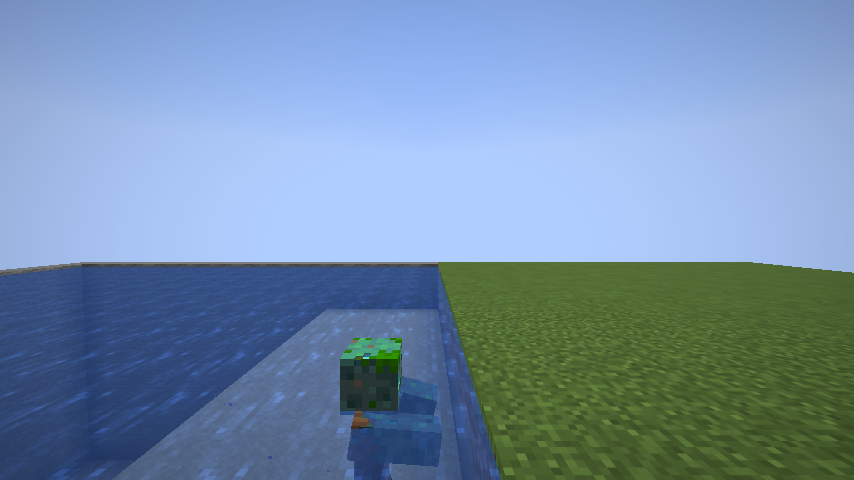
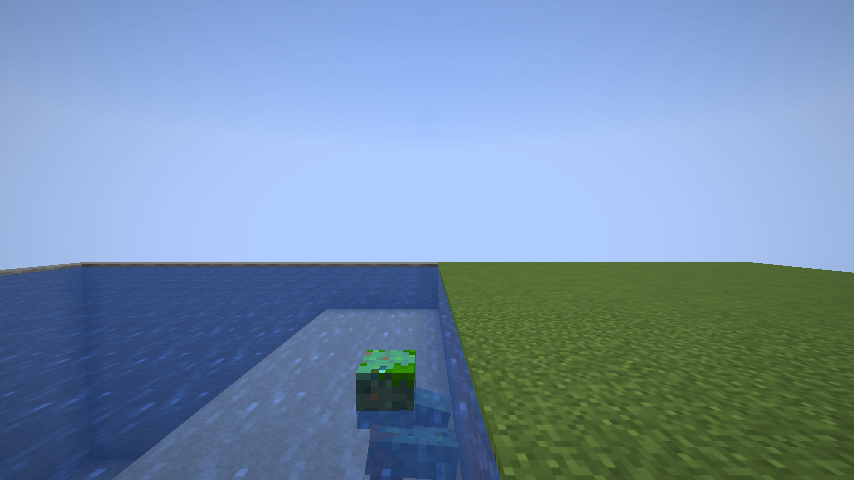
Reworked Mobs: drowned hold victims by the ankles (feet first into deep water, also when crawling) and lurk with only eyes and scalp above water; screenshots and addendum (C1)

Changed region(s): [[0.3958, 0.6875, 0.548, 1.0]]

diff --git a/mods/bubbas_reworked_mobs/src/gametest/java/io/github/bubba8587/bubbas_reworked_mobs/test/DrownedClientGameTest.java b/mods/bubbas_reworked_mobs/src/gametest/java/io/github/bubba8587/bubbas_reworked_mobs/test/DrownedClientGameTest.java
@@ -23,8 +23,9 @@ import net.fabricmc.fabric.api.client.gametest.v1.context.TestSingleplayerContex
  * Looks at the lurking drowned (specs/drowned.md; client part {@code drowned}). A stone block in the sky with a grass
  * shore, 2-deep shallows and a deep pit. Upright: drowned-lurk and drowned-lurk-low (head above the water),
  * drowned-sunk (a villager on the shore stares at it), drowned-grab (it has surged and grabbed a villager with its
- * back turned), drowned-drag-deep (upright, under water, holding it), drowned-held-player (the camera player held,
- * from the front). Lying: drowned-swim (swimming to its spot), drowned-crawl-side and drowned-crawl-front (crawling
+ * back turned), drowned-drag-deep (upright, under water, holding it), drowned-held-player (the camera player held
+ * by the ankles, from in front and below), drowned-lurk-bank (from the bank at water level: only its eyes and scalp show). Lying: drowned-grab-land
+ * (dragging a villager back to the water by the ankles), drowned-swim (swimming to its spot), drowned-crawl-side and drowned-crawl-front (crawling
  * on land).
  */
 @SuppressWarnings("UnstableApiUsage")
@@ -80,6 +81,9 @@ public class DrownedClientGameTest implements FabricClientGameTest {
 			context.waitTicks(15);
 			tp(context, server, x + 0.5, y + 0.4, z + 0.5, 0.0F, 20.0F);
 			context.takeScreenshot("drowned-lurk");
+			// From the bank, eyes just above the water (owner: only its eyes and the top of its head show).
+			tp(context, server, x + 0.5, y - 1.42, z + 2.4, 0.0F, 3.0F);
+			context.takeScreenshot("drowned-lurk-bank");
 			tp(context, server, x + 3.5, y - 0.05, z + 4.5, 90.0F, 2.0F);
 			context.takeScreenshot("drowned-lurk-low");
 
@@ -165,14 +169,33 @@ public class DrownedClientGameTest implements FabricClientGameTest {
 			}
 			context.takeScreenshot("drowned-crawl-front");
 			server.runCommand("kill @e[tag=%s]".formatted(TAG));
+			context.waitTicks(30);
+
+			// --- lying: a grab on land, dragging a villager back to the water by the ankles -------------------
+			server.runCommand("summon minecraft:drowned %d.5 %d %d.5 {PersistenceRequired:1b,Silent:1b,Rotation:[180f,0f],Tags:[\"%s\"]}".formatted(x + 4, y, z + 1, TAG));
+			server.runCommand("summon minecraft:villager %d.5 %d %d.5 {NoAI:1b,Silent:1b,Rotation:[180f,0f],Tags:[\"%s_v\"]}".formatted(x + 4, y, z - 1, TAG));
+			context.waitTicks(3);
+			onServer(server, level -> {
+				Drowned drowned = drowned(level);
+				drowned.setYRot(180.0F);
+				drowned.setYBodyRot(180.0F);
+				DrownedAccess.mind(drowned).grab(drowned, level, villager(level));
+				return null;
+			});
+			context.waitTicks(14);
+			double lz = onServer(server, level -> drowned(level).getZ());
+			tp(context, server, x + 7.5, y + 0.6, lz - 0.6, 90.0F, 12.0F);
+			context.takeScreenshot("drowned-grab-land");
+			server.runCommand("kill @e[tag=%s]".formatted(TAG));
+			server.runCommand("kill @e[tag=%s_v]".formatted(TAG));
 			server.runCommand("time set noon");
 			context.waitTicks(30);
 
 			// --- upright: holding the camera player (survival), from the front --------------------------
 			server.runCommand("gamemode survival @p");
 			server.runCommand("effect give @p minecraft:resistance infinite 4 true");
-			server.runCommand("tp @p %d.5 %d %d.5 90 10".formatted(x, y - 2, z + 6));
-			server.runCommand("summon minecraft:drowned %d.5 %d %d.5 {PersistenceRequired:1b,Silent:1b,Rotation:[180f,0f],Tags:[\"%s\"]}".formatted(x, y - 2, z + 7, TAG));
+			server.runCommand("tp @p %d.5 %d %d.5 120 35".formatted(x, y - 9, z + 11));
+			server.runCommand("summon minecraft:drowned %d.5 %d %d.5 {PersistenceRequired:1b,Silent:1b,Rotation:[180f,0f],Tags:[\"%s\"]}".formatted(x, y - 9, z + 12, TAG));
 			context.waitTicks(5);
 			onServer(server, level -> {
 				Drowned drowned = drowned(level);
@@ -181,9 +204,14 @@ public class DrownedClientGameTest implements FabricClientGameTest {
 				DrownedAccess.mind(drowned).grab(drowned, level, level.players().getFirst());
 				return null;
 			});
+			// From in front and below (the player looks down toward the camera; the drowned holds their ankles behind).
 			context.runOnClient(mc -> mc.options.setCameraType(CameraType.THIRD_PERSON_FRONT));
 			context.waitTicks(25);
+			context.takeScreenshot("drowned-held-player-hud");
+			context.runOnClient(mc -> mc.gui.hud.toggle());
+			context.waitTicks(2);
 			context.takeScreenshot("drowned-held-player");
+			context.runOnClient(mc -> mc.gui.hud.toggle());
 			context.runOnClient(mc -> mc.options.setCameraType(CameraType.FIRST_PERSON));
 			server.runCommand("kill @e[tag=%s]".formatted(TAG));
 			context.waitTicks(2);

diff --git a/mods/bubbas_reworked_mobs/src/main/java/io/github/bubba8587/bubbas_reworked_mobs/drowned/DrownedTuning.java b/mods/bubbas_reworked_mobs/src/main/java/io/github/bubba8587/bubbas_reworked_mobs/drowned/DrownedTuning.java
@@ -48,8 +48,8 @@ public final class DrownedTuning {
 	public static final double TRAVEL_SPEED = 1.2;
 
 	// --- lurking ----------------------------------------------------------------------------------
-	/** Lurking: its eyes this far above the water's surface (just the top of the head shows; it floats a little off the floor). */
-	public static final double LURK_EYES_ABOVE_SURFACE = 0.25;
+	/** Lurking: its eyes this far above the water's surface (owner: only the eyes and the top of the head show, the waterline just under the eyes; it floats a little off the floor). */
+	public static final double LURK_EYES_ABOVE_SURFACE = 0.12;
 	/** Sunk: the top of its head this far below the surface, or as low as the floor allows (in 2-deep water it stands on the floor and crouches). */
 	public static final double SUNK_HEAD_BELOW_SURFACE = 0.1;
 	/** How fast it rises and sinks (blocks a tick; the spring toward its height is capped at this). */
@@ -86,10 +86,17 @@ public final class DrownedTuning {
 	public static final double GRAB_REACH = 0.8;
 
 	// --- the grab ---------------------------------------------------------------------------------
-	/** The victim is held this far in front of it (centre to centre). */
-	public static final double HOLD_FORWARD = 0.62;
-	/** The victim's feet this far above its own (0: level; the floor stops anything lower). */
-	public static final double HOLD_UP = 0.0;
+	/**
+	 * Held by the ankles (owner, 2026-11-16): upright, the victim's soles sit at its outstretched hands (vanilla's
+	 * zombie arm pose, about 80 degrees forward from hanging), this far in front of it (centre to centre) ...
+	 */
+	public static final double HOLD_FORWARD = 0.72;
+	/** ... and this far above its own feet, so the victim floats above it and goes down feet first. */
+	public static final double HOLD_UP = 1.2;
+	/** Lying (crawling on land), its hands reach past its head along the ground: the victim's feet this far in front ... */
+	public static final double HOLD_LYING_FORWARD = 1.2;
+	/** ... at ground level. Between the two, the hold follows its swim amount (the posture easing in and out). */
+	public static final double HOLD_LYING_UP = 0.0;
 	/** Deep water is looked for this far around (a square, every DEEP_SEARCH_STEP columns). */
 	public static final int DEEP_SEARCH_RADIUS = 10;
 	public static final int DEEP_SEARCH_STEP = 2;

diff --git a/mods/bubbas_reworked_mobs/src/main/java/io/github/bubba8587/bubbas_reworked_mobs/mixin/DrownedMixin.java b/mods/bubbas_reworked_mobs/src/main/java/io/github/bubba8587/bubbas_reworked_mobs/mixin/DrownedMixin.java
@@ -178,11 +178,17 @@ abstract class DrownedMixin extends Zombie implements DrownedAccess {
 		return null;
 	}
 
-	/** The victim is held in front of it, feet level with its own (both sides compute this, so it needs no syncing). */
+	/**
+	 * The victim is held by the ankles (owner, 2026-11-16): upright, their soles at its outstretched hands, floating
+	 * above and in front of it; lying (crawling), their feet at its hands on the ground ahead of its head. Follows the
+	 * swim amount, which both sides tick, so client and server agree with no syncing.
+	 */
 	@Override
 	protected Vec3 getPassengerAttachmentPoint(Entity passenger, EntityDimensions dimensions, float scale) {
-		double up = passenger.getVehicleAttachmentPoint(this).y + DrownedTuning.HOLD_UP;
-		return new Vec3(0.0, up, DrownedTuning.HOLD_FORWARD).yRot(-getYRot() * ((float) Math.PI / 180.0F));
+		float lying = getSwimAmount(1.0F);
+		double forward = net.minecraft.util.Mth.lerp(lying, DrownedTuning.HOLD_FORWARD, DrownedTuning.HOLD_LYING_FORWARD);
+		double up = passenger.getVehicleAttachmentPoint(this).y + net.minecraft.util.Mth.lerp(lying, DrownedTuning.HOLD_UP, DrownedTuning.HOLD_LYING_UP);
+		return new Vec3(0.0, up, forward).yRot(-getYRot() * ((float) Math.PI / 180.0F));
 	}
 
 	/** Let go where they are (not on top of its head). */

diff --git a/docs/reports/drowned-feet-2026-11-16.md b/docs/reports/drowned-feet-2026-11-16.md
@@ -1,0 +1,28 @@
+<!-- dte:C1 -->
+# Docs addendum: drowned hold by the ankles, lower lurk (2026-11-16)
+
+Builder's addendum to the drowned report (already merged into `specs/drowned.md`). Two owner changes, both binding.
+
+## Held by the ankles (owner)
+
+- The victim is held by the feet, not the shoulders. Upright (lurking spot, dragging in water): the victim's soles sit at the drowned's outstretched hands (vanilla's zombie arm pose, about 80 degrees forward from hanging, hands at ~1.25 above its feet), 0.72 in front of it and 1.2 above its feet. The victim floats above and in front of it and goes down feet first as it walks backwards into deep water.
+- Lying (crawling on land): the victim's feet are at its hands on the ground, 1.2 in front of it (its arms reach past its head). Between the two postures the hold follows the drowned's swim amount (the posture easing in and out), which both client and server tick, so it still needs no syncing.
+- Numbers in `DrownedTuning`: `HOLD_FORWARD` 0.72, `HOLD_UP` 1.2, `HOLD_LYING_FORWARD` 1.2, `HOLD_LYING_UP` 0 (code: `DrownedMixin.getPassengerAttachmentPoint`). No arm-pose code was needed: vanilla's drowned arm pose already reaches to the ankles, and the crawl's arms already reach ahead.
+- Crosshair targeting still works for a held player: the drowned is now below and behind them; they look down at it (the pick fix is unchanged; the drowned's box is clear of their eyes).
+- In the 2-deep shallows a freshly grabbed player's head is above the water for a moment (their feet are at the drowned's hands); they go under as it backs into deeper water. In 3-deep or deeper water they're under at once.
+- Not done: the victim keeps a standing pose (no flailing arms, no lying-on-the-back pose when dragged over land).
+
+## Lower lurk (owner)
+
+- Lurking, only its eyes and the top of its head show; the waterline is just under the eyes. `LURK_EYES_ABOVE_SURFACE` 0.25 → **0.12** (entity eye height; the drawn eyes sit right at the surface, the scalp about 0.33 above it).
+
+## Tests and screenshots
+
+- `./gradlew :bubbas_reworked_mobs:build -PmilestoneTests -PrerunGametests`: all 93 pass (no test numbers changed; the drag test's "eyes under water" still holds over the 8-deep pit).
+- Client part `drowned` adds `drowned-lurk-bank` (from the bank at water level) and `drowned-grab-land` (crawling back to the water dragging a villager by the ankles, at night); `drowned-held-player` is now third person from in front and below with the HUD hidden (the drowned under the player holding their ankles), in deep water; `drowned-held-player-hud` keeps the grabbed hint.
+- Previews updated in `docs/previews/drowned/`: `drowned-lurk-bank.png`, `drowned-lurk-low.png`, `drowned-sunk.png`, `drowned-drag-deep.png`, `drowned-grab-land.png`, `drowned-held-player.png` (plus the unchanged `drowned-swim.png`, `drowned-crawl-side.png`).
+
+## Player-facing text changes
+
+- "It lunges out, grabs you by the ankles and drags you backwards, feet first, into the deepest water nearby."
+- "They wait in shallow water by the shore with only their eyes and the top of the head above the water."
